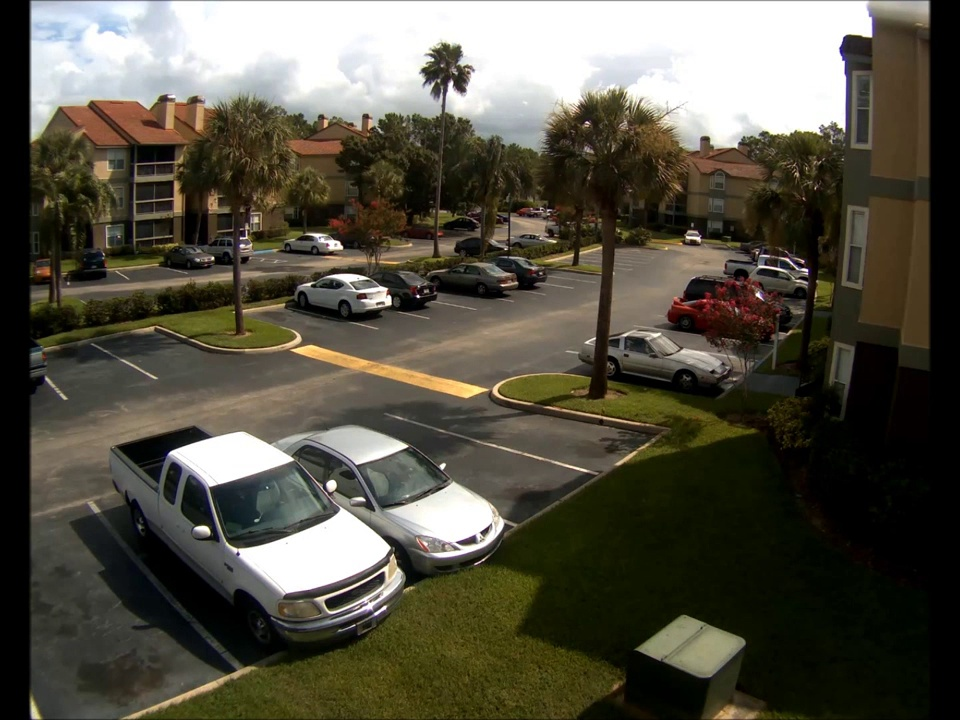
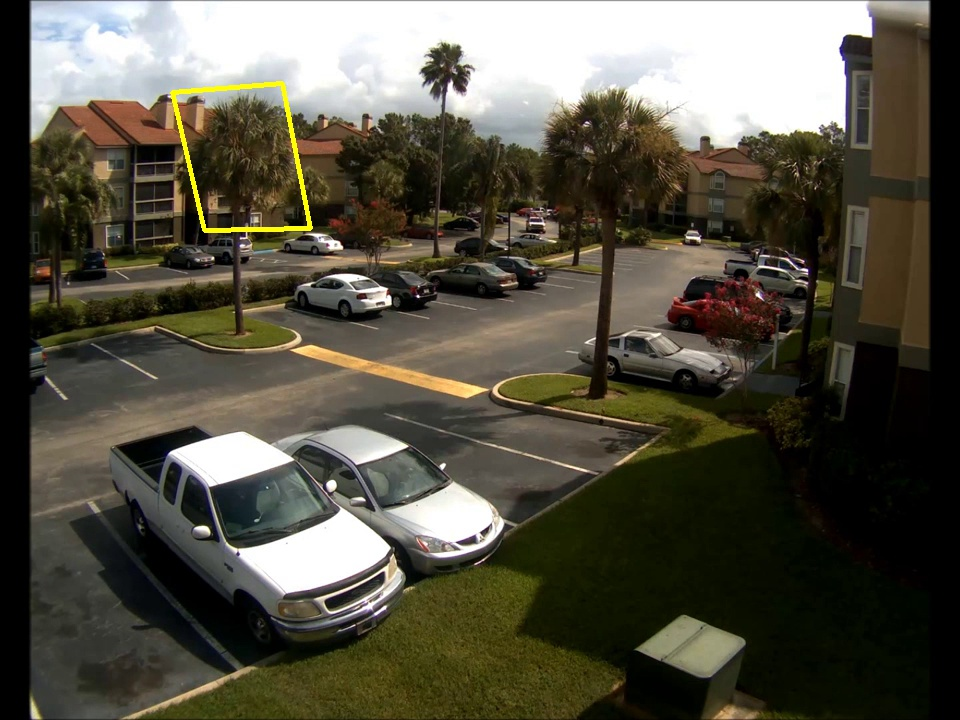
bug fixed and integrated of polygons into video

diff --git a/main.py b/main.py
@@ -1,8 +1,15 @@
 #imports
 import cv2
 import numpy as np
+import os
+
+#custom imports
 from polyPoints import polyPoints
-# form loadCo import loadCo
+from loadCoordinates import loadCo
+
+#initialize loadcoordinates
+c = loadCo()
+data = c.output()
 
 #data source
 cascade_src = 'cars.xml'
@@ -17,12 +24,57 @@ cap = cv2.VideoCapture(video_src)
 #load trained data
 car_cascade = cv2.CascadeClassifier(cascade_src)
 
+#triggring mechanism
+trigger = 0
 while(True):
     # Capture frame-by-frame
     ret, frame = cap.read()
+    
+    # drawing images
+    if  os.path.getsize('coordinates.txt') != 0:
+        print 'file have some data'
+        main = []
+        count = 0
+        for i in data:
+            if count == 0:
+                x1 = i
+            elif count == 1:
+                y1 = i
+            elif count == 2:
+                x2 = i
+            elif count == 3:
+                y2 = i
+            elif count == 4:
+                x3 = i
+            elif count == 5:
+                y3 = i
+            elif count == 6:
+                x4 = i
+            elif count == 7:
+                y4 = i
+                main.append(((x1, y1), (x2, y2), (x3, y3), (x4, y4)))
+                count = -1
+            count = count + 1
+        
+        for m in main:
+            vrx = np.array(m, np.int32)
+            vrx = vrx.reshape((-1,1,2))
+            final= cv2.polylines(frame, [vrx], True, (0,255,255),3)
 
-    # Display the resulting frame
-    cv2.imshow('me',frame)
+        trigger = 1
+    else:
+        print 'no data in coordinates.txt'
+        final = frame
+
+    if trigger == 0:
+        # cv2.destroyWindow('not triggred')
+        # cv2.imshow('triggred',final)
+        cv2.imshow('not triggred', final)
+    else:
+        # cv2.imshow('not triggred', final)
+        cv2.imshow('triggred',final)
+
+
 
     key = cv2.waitKey(1)
     if key & 0xFF == ord('q'):
@@ -30,7 +82,7 @@ while(True):
     #if c is pressed
     elif key == ord("c"):
         #image is captured and saves to db
-        cv2.imwrite( "images/image.jpg", frame );
+        cv2.imwrite( "images/image.jpg", frame )
         p = polyPoints()
         p.load()
         

diff --git a/loadCoordinates.py b/loadCoordinates.py
@@ -14,44 +14,5 @@ class loadCo:
 
 
         return arr
-        # c = 0
-        # for i in points:
-        #     if i != '':
-        #         print 'space found'
-        #         c = c+1
-        #         print c
-        #     # print i
-
-        # data manupulating to array
-#         b = ''
-
-#         #for storing stings
-#         val = []
-#         # final array list of polygon 
-#         arr = []
-
-#         #count
-#         c = 0
-
-#         for p in points:
-#             #removing impurities from text to get numbers
-#             if p != '[' and p != '(' and p != ',' and p != ')' and p != ' ' and p != ']':
-#                 val.append(p)
 
         
-#         # for i in val:
-#         #     b = b + i
-#         #     c = c + 1
-#         #     if c == 3:
-#         #         arr.append(int(b))
-#         #         b = ''
-#         #         c = 0
-        
-#         # return arr
-
-
-# c = loadCo()
-# # print(c.output())
-# f = c.output()
-
-# print f

diff --git a/test/video.py b/test/video.py
@@ -1,0 +1,31 @@
+import numpy as np
+import cv2
+
+cap = cv2.VideoCapture(0)
+trigger = 0
+
+while(True):
+    # Capture frame-by-frame
+    ret, frame = cap.read()
+    
+    if trigger == 1:
+        print 'triggred'
+        final = cv2.circle(frame, (100,100),50, (255,0,0))
+    else:
+        print 'not triggred'
+        final = frame
+
+
+    # Display the resulting frame
+    cv2.imshow('frame',final)
+
+    key = cv2.waitKey(1) & 0xFF
+    if  key == ord('q'):
+        break
+    elif key == ord('g'):
+        trigger = 1
+    
+
+# When everything done, release the capture
+cap.release()
+cv2.destroyAllWindows()

diff --git a/polyPoints.py b/polyPoints.py
@@ -62,6 +62,7 @@ class polyPoints:
 
             # display the image and wait for a keypress
             cv2.imshow("image", img)
+
             key = cv2.waitKey(1) & 0xFF
             # if the 's' key is pressed, save region and send back to video feed
             if key == ord("s"):
@@ -77,4 +78,5 @@ class polyPoints:
 
             elif key == ord("q"):
                 cv2.destroyWindow('image')
-                break
+                # cap.release()
+                # cv2.destroyAllWindows()

diff --git a/test/check_file_empty_or_not.py b/test/check_file_empty_or_not.py
@@ -1,0 +1,4 @@
+# f = open('emp.txt','r')
+import os
+if  os.path.getsize('emp.txt') == 0:
+    print 'empty'
